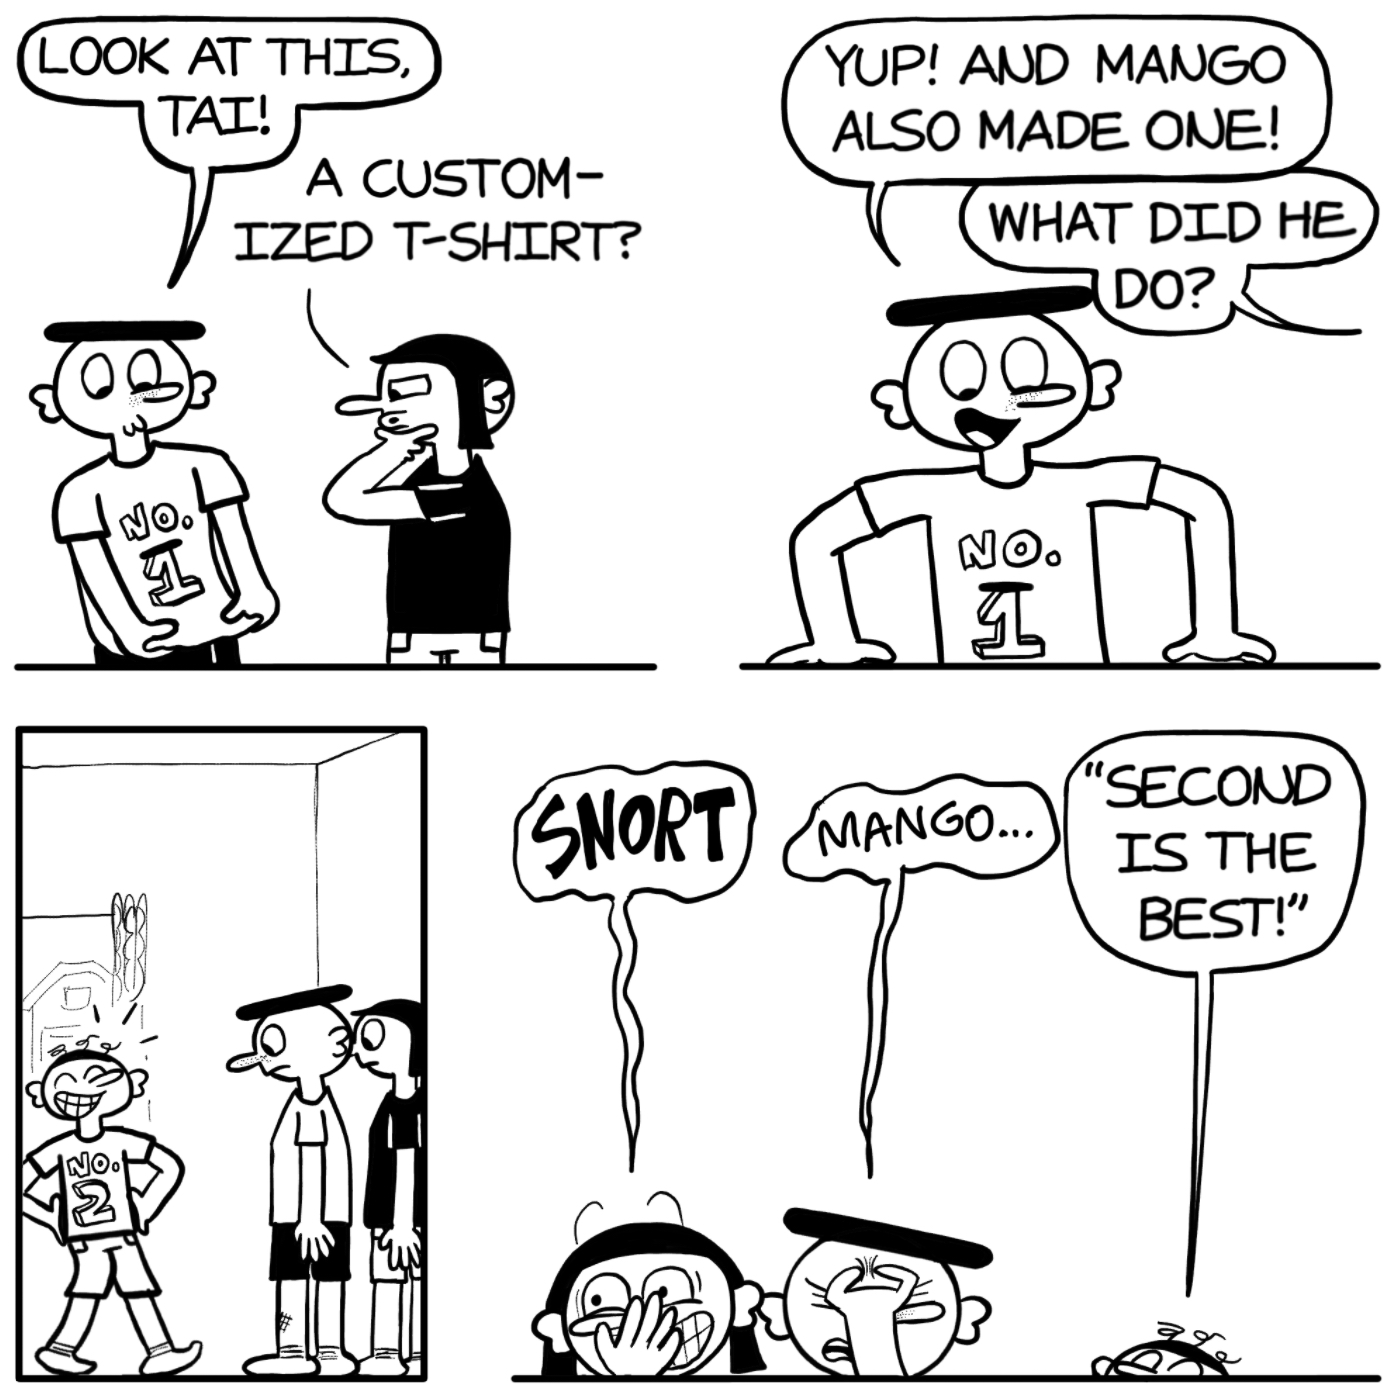
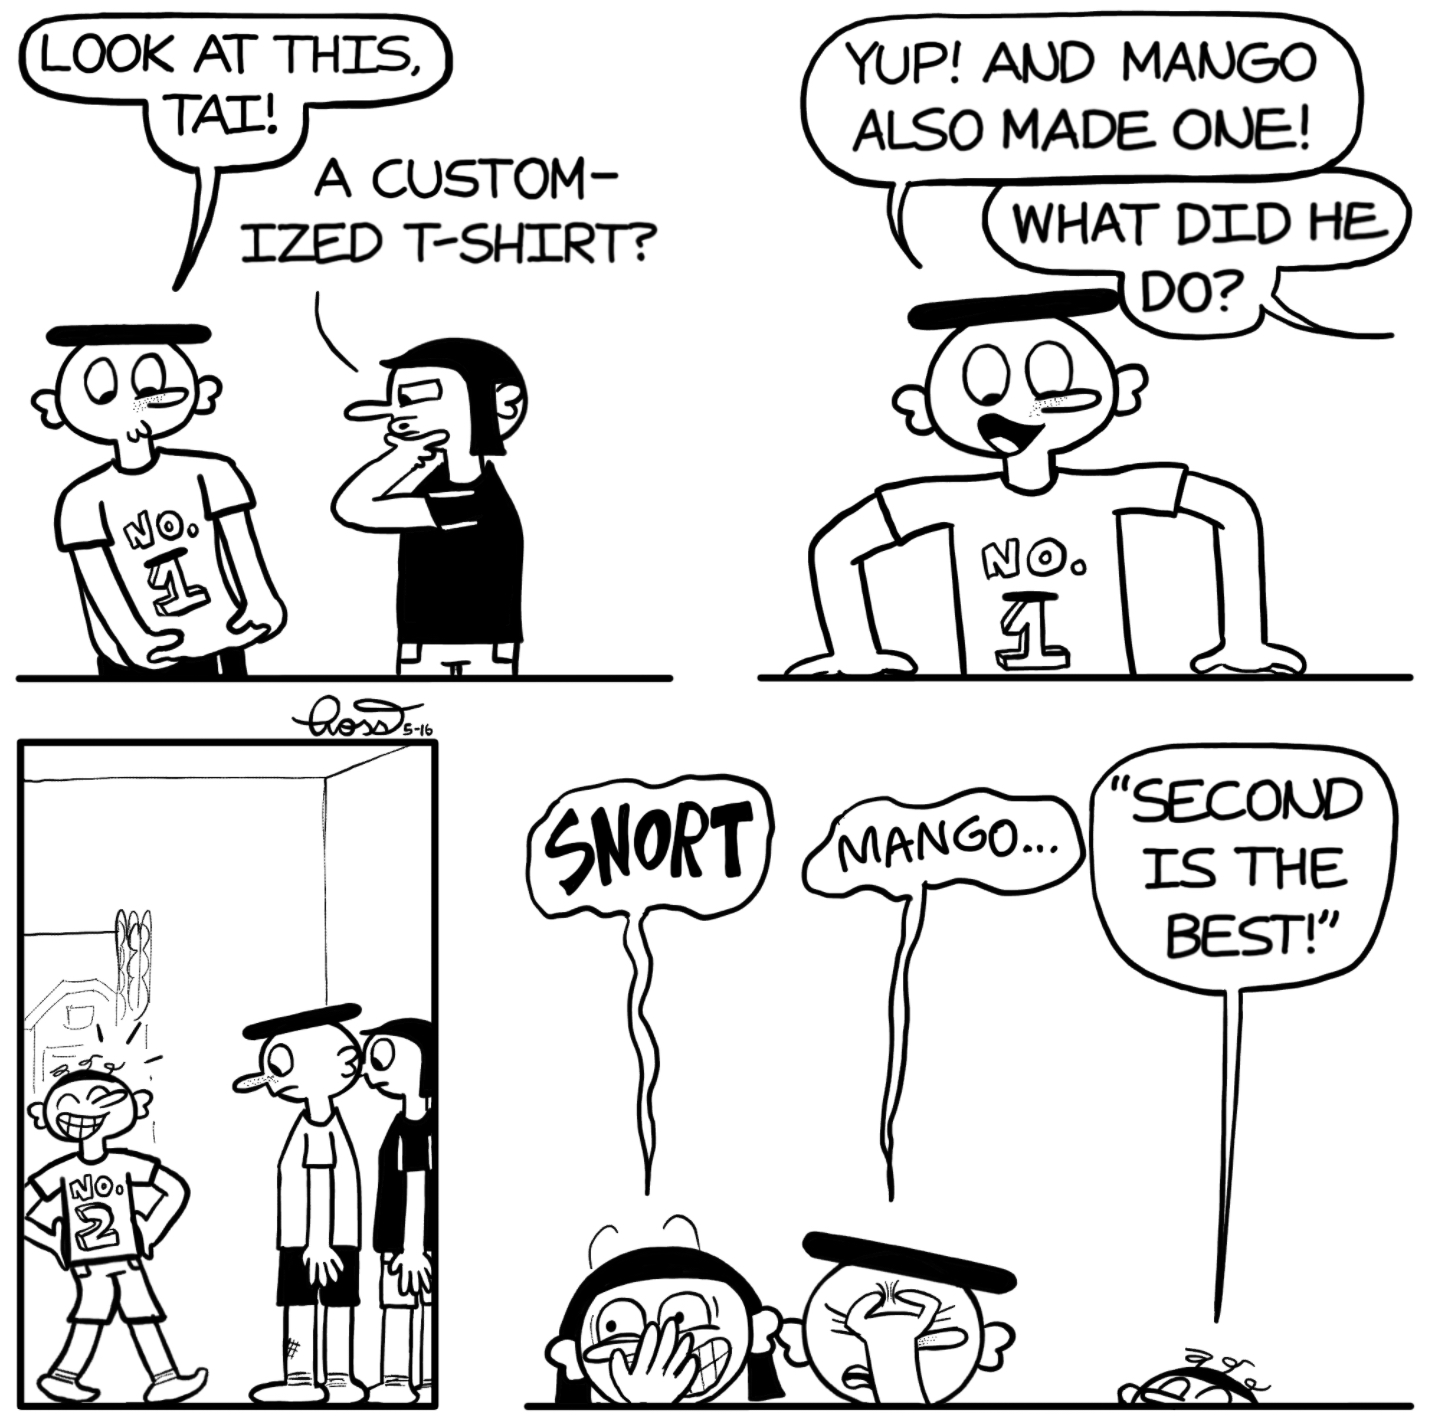
added 354th comic and fixed 350th comic

Changed region(s): [[0.3691, 0.0, 1.0, 1.0], [0.0, 0.2159, 0.4614, 1.0], [0.0, 0.0, 0.4614, 0.401]]

diff --git a/comics/354.md b/comics/354.md
@@ -1,0 +1,4 @@
+---
+layout: comic
+---
+# #354: Legitimate Lemonade
